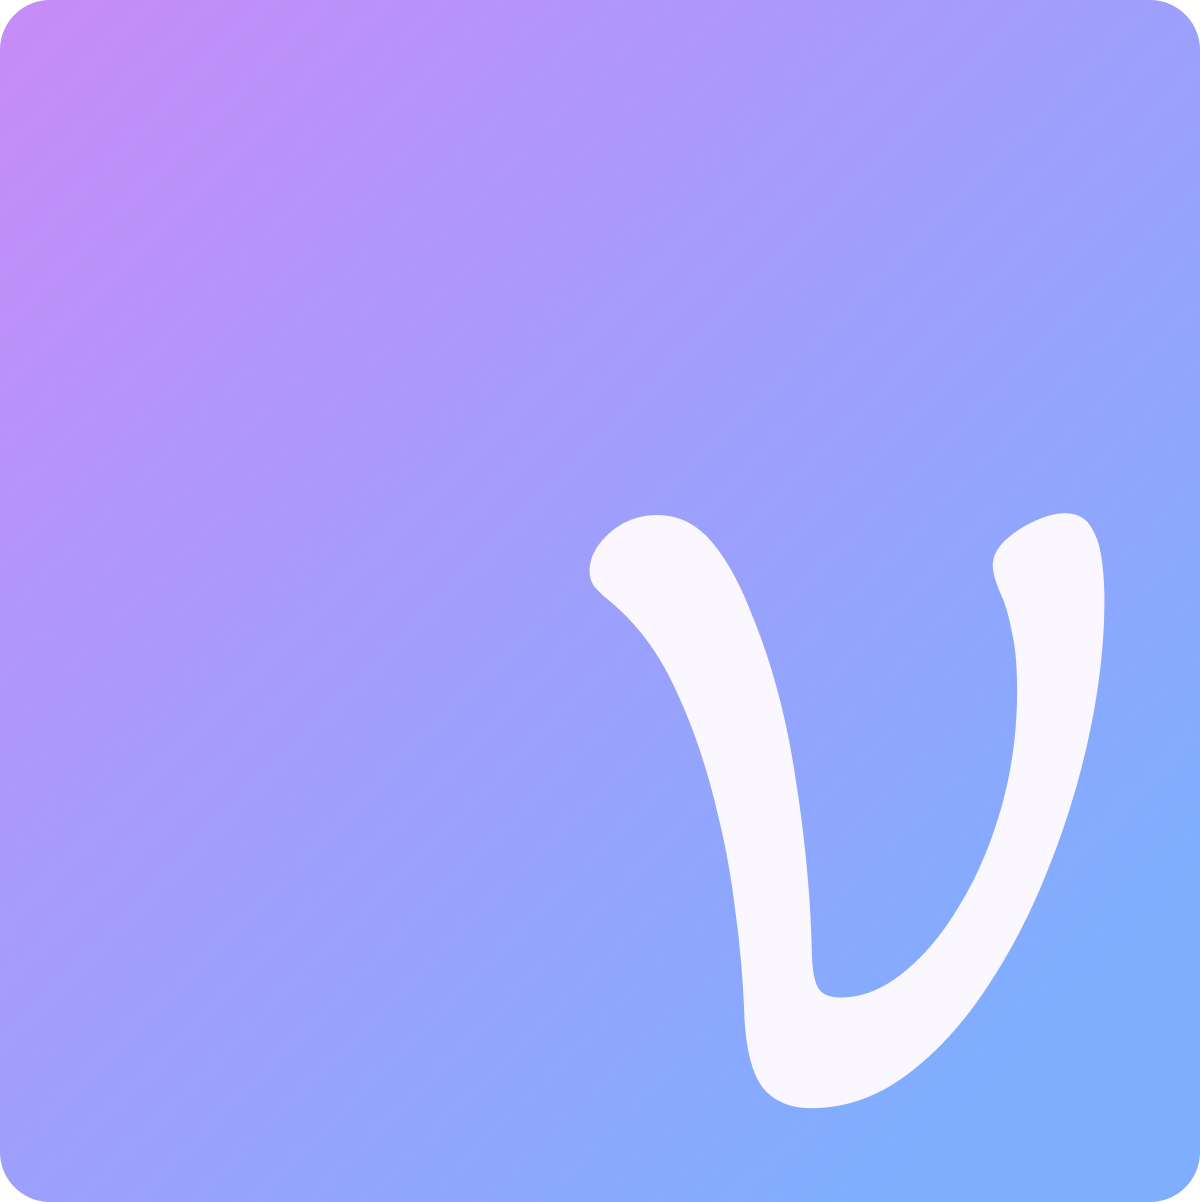
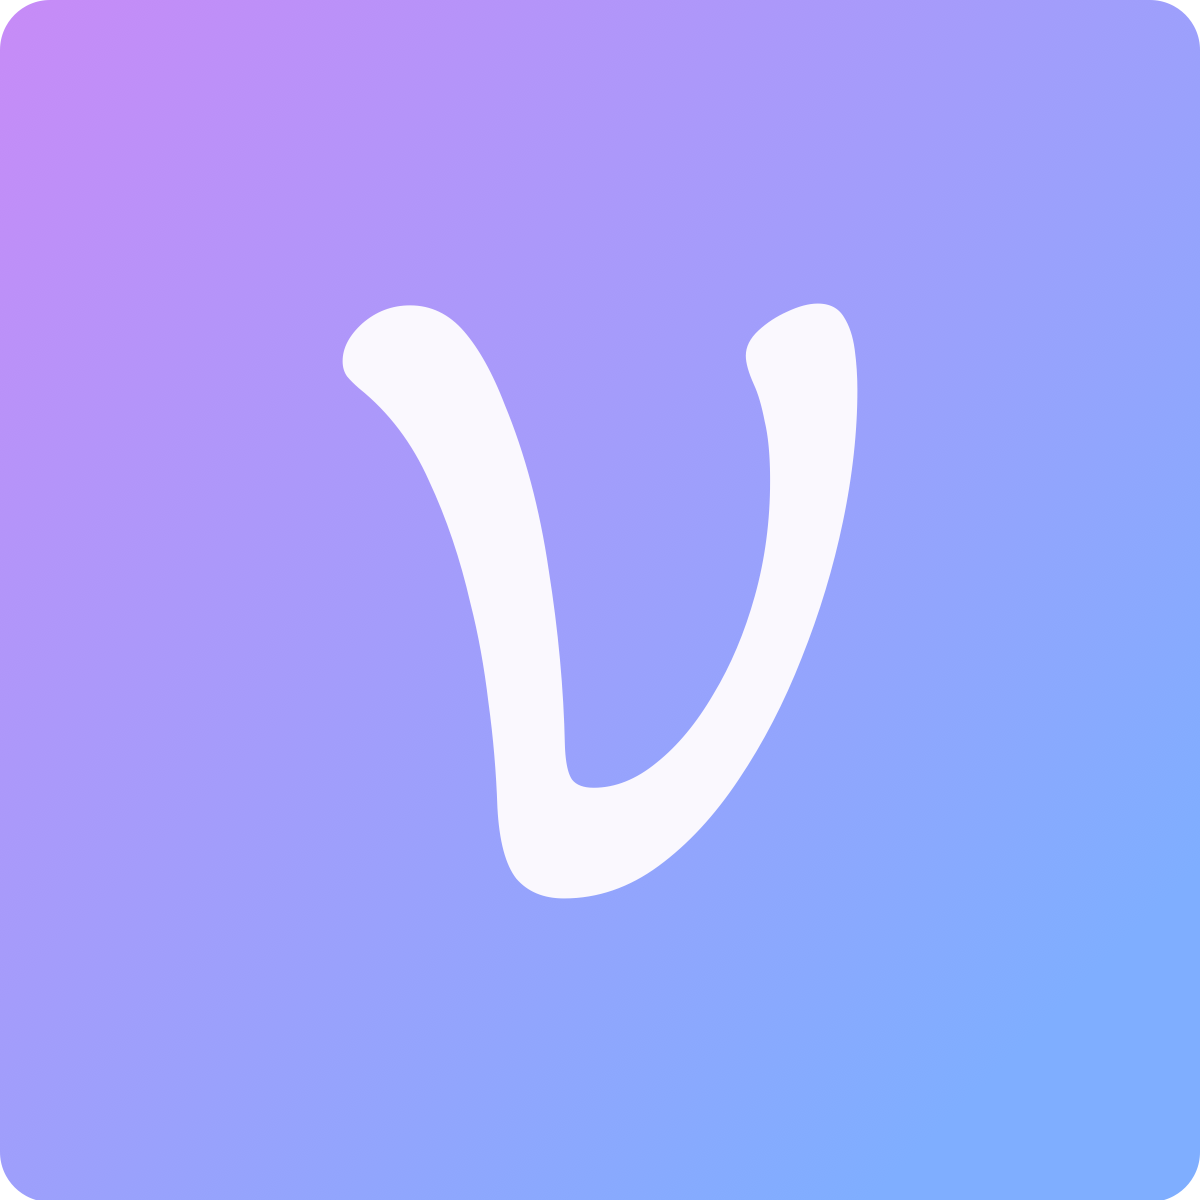
🎨 fix(docs): the mark is centred, and the swatches work without a pointer
Three fixes to the same page, all found by looking at it.

**The mark sat in the bottom-right of its own canvas**, measured at +20%
right and +17% down, with the left half and the top third empty. Two
independent measurements agreed before anything moved: the bounding box
in the raster said +247/+208, the translate computed from the vector said
-247/-210. Fixed in the SVG, committed here as the source, so the next
correction is a number rather than an archaeology. The exports come out
square too, which the old files were not.

**The inline mark broke out of its sentence** and sat alone between two
lines of prose. The theme switch uses `display: block`, which is right
for the logo and wrong inside a paragraph, where a block-level `img`
takes a line of its own.

**The swatch values could not be copied on a touch screen.** They were
hidden until `:hover`, which does not exist there, so the one thing this
grid is for was unreachable. `@media (hover: none)` asks the question
that matters, whether this device can hover, rather than guessing from
the width and getting a small laptop wrong in one direction and a large
tablet wrong in the other.

Also: the logo links home, which is what a reader clicking a logo is
asking for. And the CTA's mark moves inside its button, so the same pair
of mark and name is not treated three different ways on one page.

Changed region(s): [[0.2775, 0.2467, 0.925, 0.925], [0.9558, 0.9867, 0.9867, 1.0]]

diff --git a/docs/index.html b/docs/index.html
@@ -55,7 +55,40 @@
   :root[data-theme="light"] .only-dark { display: none; }
   :root[data-theme="light"] .only-light { display: block; }
 
+  /* An inline mark stays inline when it is shown.
+     The rules above switch the two cuts with `display: block`, which is right
+     for the logo and wrong inside a sentence: a block-level `img` in a
+     paragraph takes a line of its own, so the mark before "Violeet" broke away
+     from the word it belongs to and sat alone between two lines of prose.
+     Seen on the page before it was explained. */
+  .inline-mark.only-dark, .inline-mark.only-light { display: none; }
+  @media (prefers-color-scheme: dark) {
+    :root:not([data-theme="light"]) .inline-mark.only-dark { display: inline-block; }
+  }
+  :root[data-theme="dark"] .inline-mark.only-dark { display: inline-block; }
+  :root[data-theme="light"] .inline-mark.only-light { display: inline-block; }
+  :root:not([data-theme="dark"]):not([data-theme="light"]) .inline-mark.only-light { display: inline-block; }
+  @media (prefers-color-scheme: dark) {
+    :root:not([data-theme="light"]) .inline-mark.only-light { display: none; }
+  }
+
+
   .wordmark { font-weight: 700; letter-spacing: -0.01em; font-size: 1.1rem; }
+  /* The logo is a link, and inherits rather than turning link-coloured: a
+     wordmark that changes colour because it became clickable has stopped being
+     the wordmark. The mark and the name share one hit area, so the gap between
+     them is clickable too and there is no dead strip in the middle of a target
+     that reads as one thing. */
+  .brand-home {
+    display: flex; align-items: center; gap: 14px;
+    color: inherit; text-decoration: none;
+    border-radius: 8px;
+  }
+  .brand-home:hover { opacity: 0.82; }
+  .brand-home:focus-visible {
+    outline: 2px solid currentColor;
+    outline-offset: 4px;
+  }
   .nav-links { margin-left: auto; display: flex; gap: 8px; align-items: center; }
   .ghost {
     background: none; border: 1px solid var(--violeeter-brightblack);
@@ -178,6 +211,23 @@
     opacity: 0; transition: opacity .12s;
   }
   .sw:hover .sw-actions, .sw:focus-within .sw-actions { opacity: 1; }
+
+  /* On a device with no pointer, the pair is always there.
+     Hiding them until hover is right with a mouse and leaves a touch screen
+     with two invisible buttons: the values cannot be revealed, so they cannot
+     be copied, which is the one thing this grid is for. `hover: none` asks the
+     question that actually matters — whether this device can hover — rather
+     than guessing from the width, which gets a small laptop wrong in one
+     direction and a large tablet wrong in the other.
+     They get their own plate here. Permanently visible text over an arbitrary
+     colour has to carry its own contrast; the text-shadow alone was doing that
+     job for a label that only appeared over a colour you had chosen to point
+     at. */
+  @media (hover: none) {
+    .sw-actions { opacity: 1; }
+    .sw-actions button { background: rgba(18, 16, 32, 0.55); }
+    .sw-sep { opacity: 0.75; }
+  }
   .sw-actions button {
     border: 0; background: none; cursor: pointer;
     color: #fff; font: 700 0.82rem/1 ui-monospace, "SF Mono", Menlo, monospace;
@@ -280,9 +330,15 @@
 <div class="wrap">
 
 <nav>
-  <img class="mark only-dark" src="violeeter-dark.png" alt="Violeeter">
-  <img class="mark only-light" src="violeeter-light.png" alt="Violeeter">
-  <span class="wordmark">Violeeter</span>
+  <!-- The mark and the name are one link home, because that is what a reader
+       who clicks a logo is asking for. `./` rather than `/`: this is a project
+       page under a user site, so `/` is grippado.github.io and not this page
+       at all. -->
+  <a class="brand-home" href="./" aria-label="Violeeter, home">
+    <img class="mark only-dark" src="violeeter-dark.png" alt="Violeeter">
+    <img class="mark only-light" src="violeeter-light.png" alt="Violeeter">
+    <span class="wordmark">Violeeter</span>
+  </a>
   <div class="nav-links">
     <a class="ghost" href="#install">Install</a>
     <a class="ghost with-icon" href="https://github.com/grippado/violeeter"><svg class="ic" viewBox="0 0 16 16" aria-hidden="true"><path fill="currentColor" d="M8 0C3.58 0 0 3.58 0 8c0 3.54 2.29 6.53 5.47 7.59.4.07.55-.17.55-.38 0-.19-.01-.82-.01-1.49-2.01.37-2.53-.49-2.69-.94-.09-.23-.48-.94-.82-1.13-.28-.15-.68-.52-.01-.53.63-.01 1.08.58 1.23.82.72 1.21 1.87.87 2.33.66.07-.52.28-.87.51-1.07-1.78-.2-3.64-.89-3.64-3.95 0-.87.31-1.59.82-2.15-.08-.2-.36-1.02.08-2.12 0 0 .67-.21 2.2.82.64-.18 1.32-.27 2-.27s1.36.09 2 .27c1.53-1.04 2.2-.82 2.2-.82.44 1.1.16 1.92.08 2.12.51.56.82 1.27.82 2.15 0 3.07-1.87 3.75-3.65 3.95.29.25.54.73.54 1.48 0 1.07-.01 1.93-.01 2.2 0 .21.15.46.55.38A8.012 8.012 0 0 0 16 8c0-4.42-3.58-8-8-8z"/></svg><span>GitHub</span></a>
@@ -444,12 +500,14 @@ cd violeeter/dist</pre>
     wrong in the thing its author uses all day, which is the only test of a
     theme that cannot be faked.
   </p>
-  <p style="margin-top:20px; display:flex; align-items:center; gap:12px">
-    <img class="only-dark" src="violeet-dark.png" alt="Violeet"
-         style="width:34px; height:34px; flex:none; object-fit:contain">
-    <img class="only-light" src="violeet-light.png" alt="Violeet"
-         style="width:34px; height:34px; flex:none; object-fit:contain">
-    <a class="ghost" href="https://grippado.github.io/violeet/" style="padding:9px 16px">Violeet →</a>
+  <!-- The mark travels inside the link, not beside it.
+       A 34px mark parked next to a bordered button read as two separate things
+       that happen to be adjacent, and it was the third different treatment of
+       one pair — mark plus name — on a single page. The badge above and the
+       sentence before it both put the mark inline at text size, so this does
+       too. One pattern, three places. -->
+  <p style="margin-top:20px">
+    <a class="ghost with-icon" href="https://grippado.github.io/violeet/" style="padding:9px 16px"><img class="inline-mark only-dark" src="violeet-dark.png" alt=""><img class="inline-mark only-light" src="violeet-light.png" alt="">Violeet →</a>
   </p>
 </section>
 
